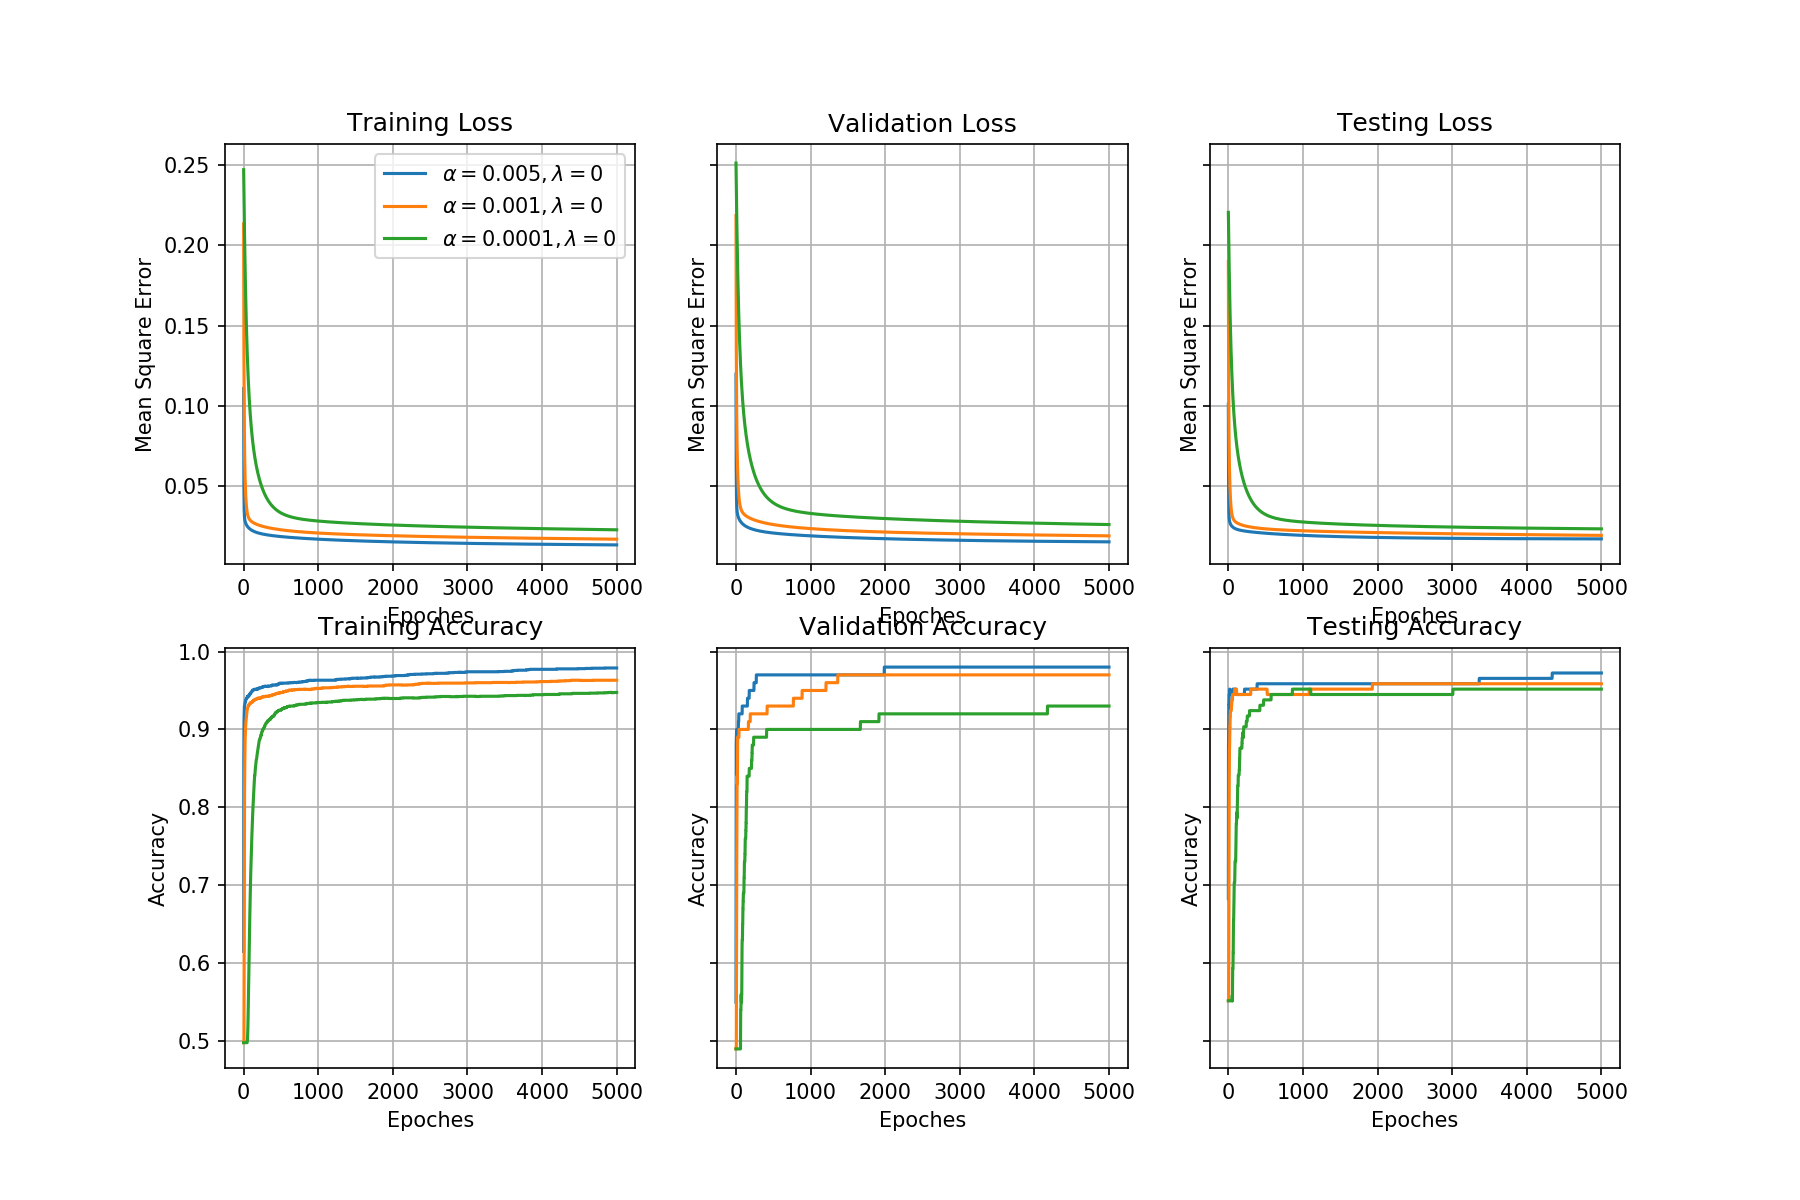
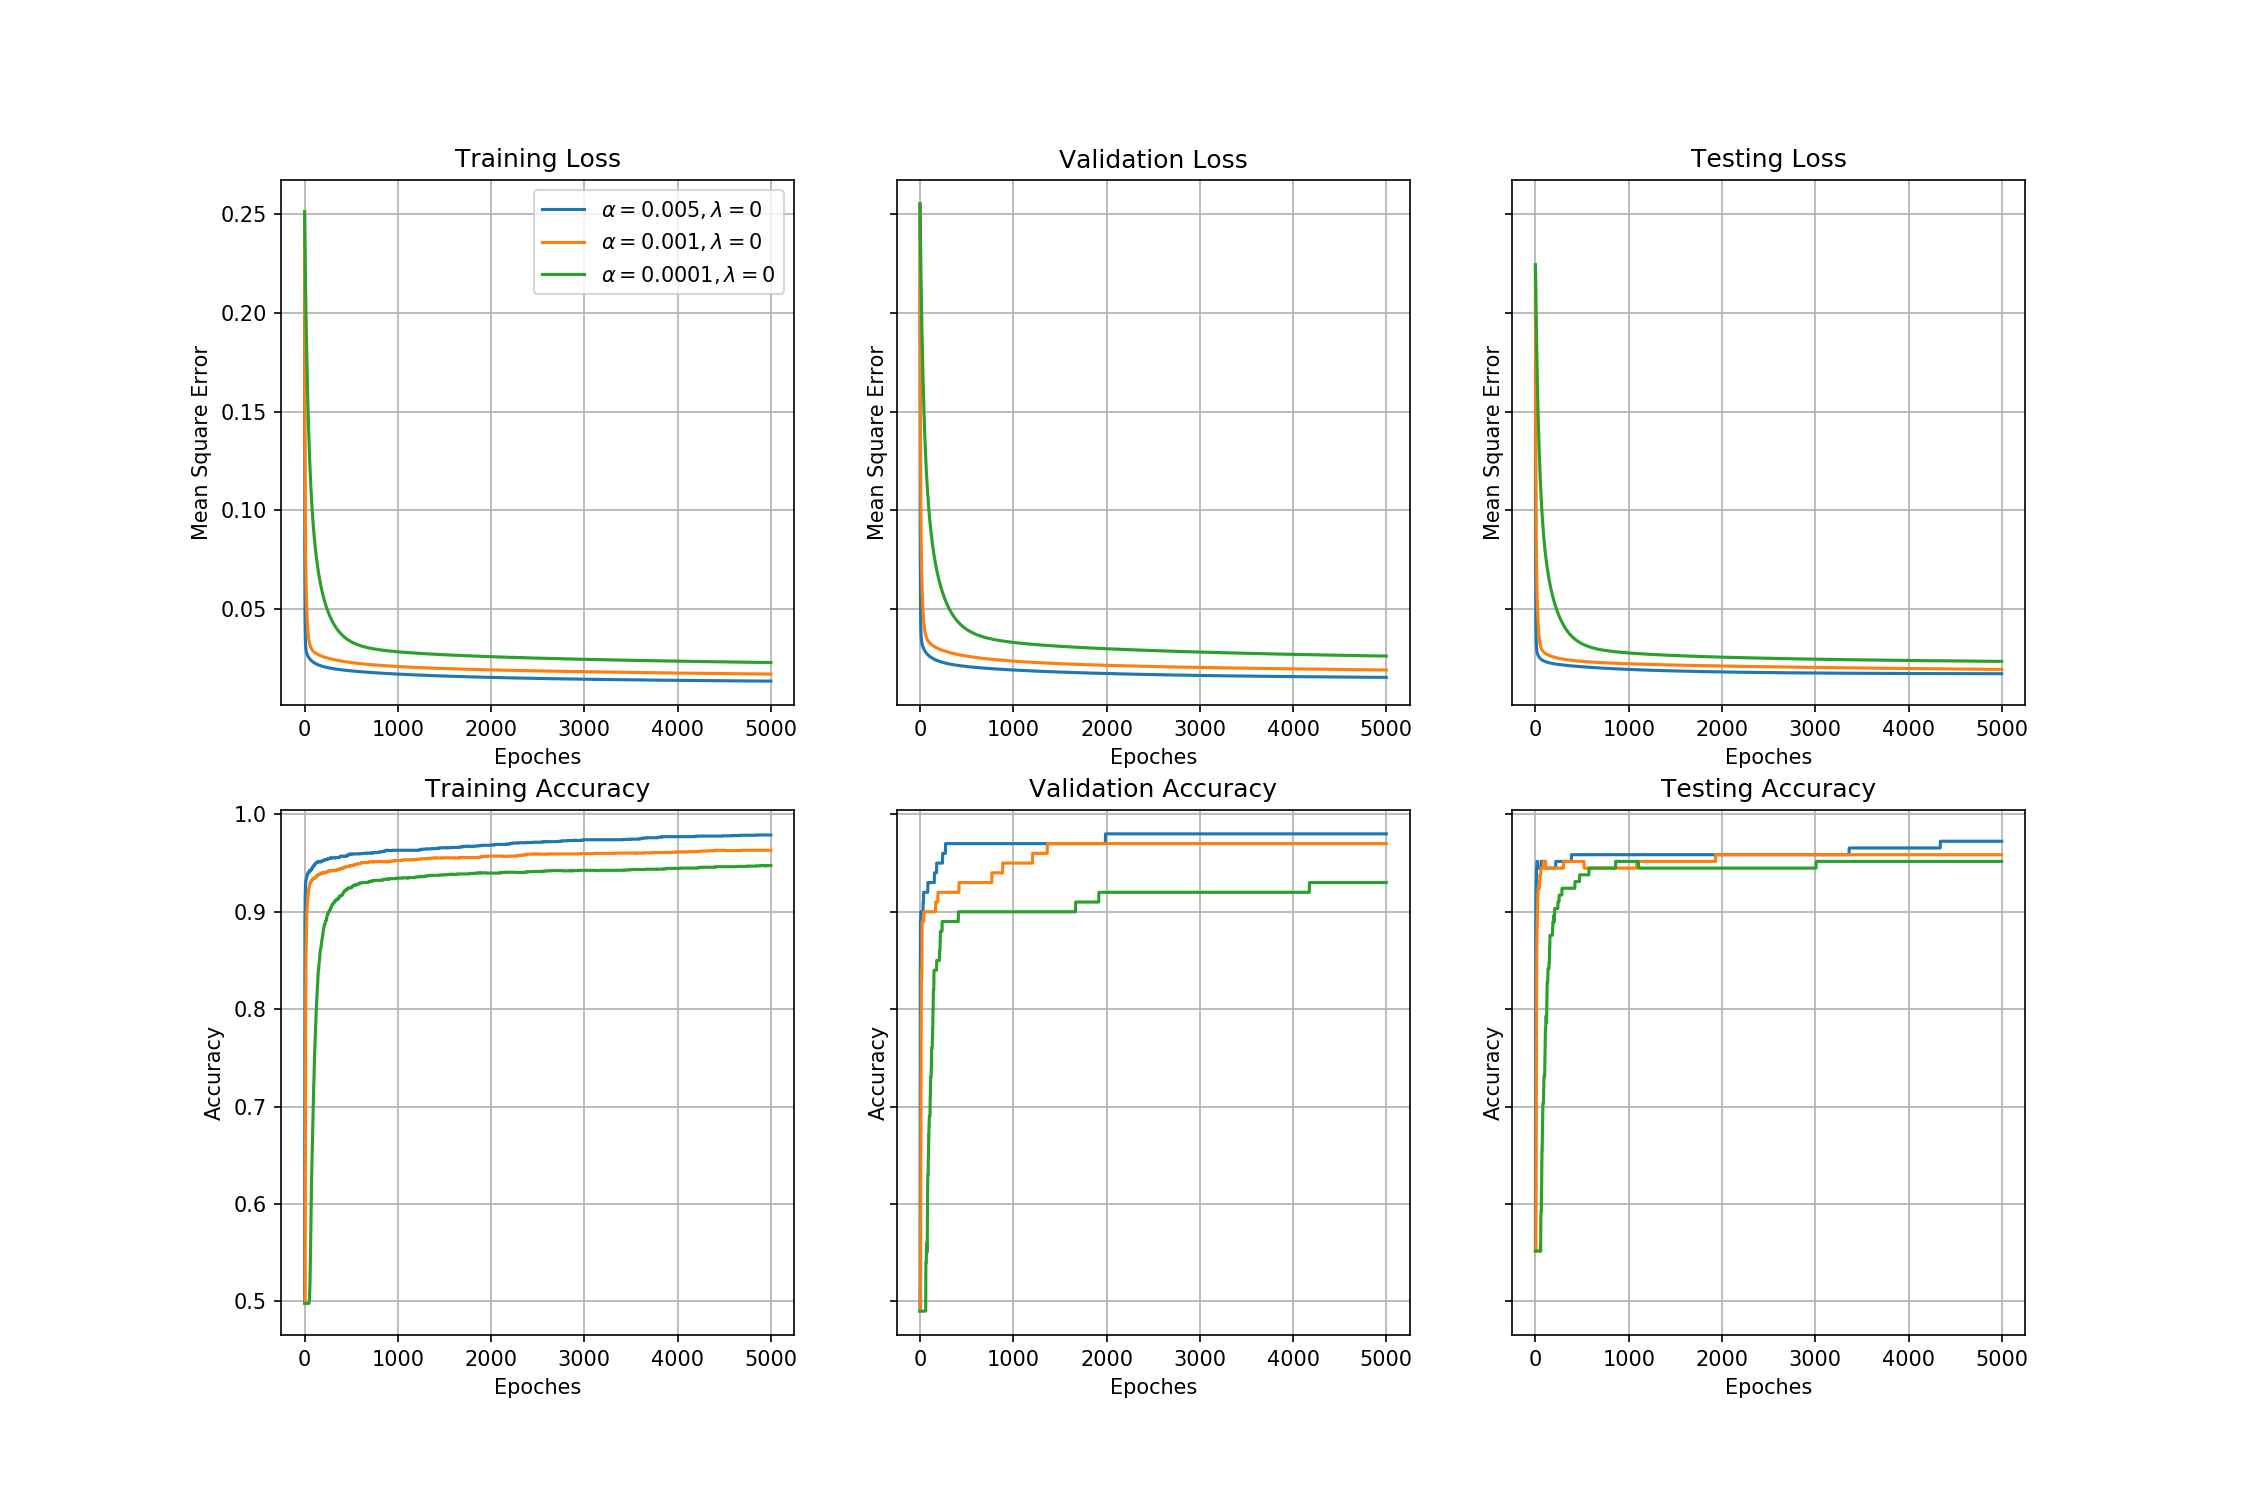
More TF; rerun Q1

diff --git a/a1/starter.py b/a1/starter.py
@@ -159,8 +159,9 @@ def grad_descent(W, b, trainingData, trainingLabels, alpha, iterations, reg, EPS
     else:
         return W, b, mseList, validMseList, testMseList, accuracyList, validAccuracyList, testAccuracyList
 
-def buildGraph(lossType=None, learning_rate=0.001, d=784):
-    # Your implementation here
+def buildGraph(beta1=None, beta2=None, epsilon=None, 
+               lossType=None, learning_rate=0.001, d=784, stddev=0.5):
+    # Validate input
     if lossType is None or lossType == 'mse':
         pass
     elif lossType == 'ce':
@@ -170,26 +171,30 @@ def buildGraph(lossType=None, learning_rate=0.001, d=784):
     
     tf.set_random_seed(421)
     
-    W = tf.Variable(tf.zeros(
-        (d, 1)
+    # Model parameters (Variables)
+    W = tf.Variable(tf.truncated_normal(
+        (d, 1), stddev=stddev, seed=421
     ), trainable=True, name='Weight')
-    
+#    W = tf.Variable(tf.zeros(
+#        (d, 1)
+#    ), trainable=True, name='Weight')
     b = tf.Variable(tf.zeros(
         (1, 1)
     ), trainable=True, name='bias')
     
+    # Data inputs (Placeholders)
     x = tf.placeholder(
         dtype=tf.float32,
         shape=(d, None),
-        name='trainData'
+        name='data'
     )
-    
     y = tf.placeholder(
         dtype=tf.float32,
         shape=(1, None),
-        name='trainLabel'
+        name='label'
     )
     
+    # Hyperparameter (Placeholder)
     lambd = tf.placeholder(
         dtype=tf.float32,
         shape=(1, 1),
@@ -205,13 +210,13 @@ def buildGraph(lossType=None, learning_rate=0.001, d=784):
         
     optimizer = tf.train.GradientDescentOptimizer(learning_rate=learning_rate).minimize(loss)
     
-    return optimizer, x, y, lambd, loss, W, b, yhat
+    return optimizer, W, b, x, y, lambd, yhat, loss
 
 
 
 if __name__ == '__main__':
     # %%
-    linear_regression_epochs = 0
+    linear_regression_epochs = 5000
     run13 = True
     run14 = True
     save_linear_regression = False
@@ -219,7 +224,7 @@ if __name__ == '__main__':
 
     logistic_regression_epochs = 0
     
-    run_tf = True
+    tf_epochs = 0
     
     trainData, validData, testData, trainTarget, validTarget, testTarget = loadData()
     
@@ -350,35 +355,55 @@ if __name__ == '__main__':
         
         
     # %% Q3
-    if run_tf:
-        optimizer, x, y, lambd, loss, W, b, yhat = buildGraph()
-        feed = {x: trainDataVec,
-                y: trainTarget.T,
-                lambd: ((0,),)}
+    if tf_epochs:
+        optimizer, W, b, x, y, lambd, yhat, loss = buildGraph(learning_rate=0.005, stddev=0.05)
+        
+        lambd_val = 0
+        
+        train_dict = {x: trainDataVec,
+                      y: trainTarget.T,
+                      lambd: ((lambd_val,),)}
+        valid_dict = {x: validDataVec,
+                      y: validTarget.T,
+                      lambd: ((lambd_val,),)}
+        test_dict = {x: testDataVec,
+                     y: testTarget.T,
+                     lambd: ((lambd_val,),)}
+        
+        results = []
         
         init = tf.global_variables_initializer()
         with tf.Session() as sess:
             sess.run(init)
-            W_ = sess.run(W)
-            b_ = sess.run(b)
-            print(np.count_nonzero((W_.T.dot(trainDataVec) + b_ > 0.5) == trainTarget.T) / trainTarget.size)
             
-            print(sess.run(loss, feed_dict=feed))
-            sess.run(optimizer, feed_dict=feed)
-            print(sess.run(loss, feed_dict=feed))
-            
-#            print(sess.run(x, feed_dict=feed))
-#            print(sess.run(y, feed_dict=feed))
-#            print(sess.run(lambd, feed_dict=feed))
 #            print(sess.run(loss, feed_dict=feed))
-#            print(sess.run(W))
-#            print(sess.run(b))
+#            print(np.count_nonzero((W_.T.dot(trainDataVec) + b_ > 0.5) == trainTarget.T) / trainTarget.size)
             
-#            print(sess.run((yhat>0.5) == y, feed_dict=feed))
-            W_ = sess.run(W)
-            b_ = sess.run(b)
-            print(np.count_nonzero((W_.T.dot(trainDataVec) + b_ > 0.5) == trainTarget.T) / trainTarget.size)
-            
+            print('i', 'train_loss', 'train_acc', sep='\t')
+            for i in range(tf_epochs):
+                train_loss, train_yhat, _ = sess.run([
+                        loss, yhat, optimizer
+                        ], feed_dict=train_dict)
+                train_acc = np.count_nonzero((train_yhat > 0.5) == trainTarget.T) / trainTarget.size
+                
+                print('\r', i, train_loss, train_acc, sep='\t', end='       \r')
+                
+                
+                
+#                print(sess.run(loss, feed_dict=feed))
+#                
+#    #            print(sess.run(x, feed_dict=feed))
+#    #            print(sess.run(y, feed_dict=feed))
+#    #            print(sess.run(lambd, feed_dict=feed))
+#    #            print(sess.run(loss, feed_dict=feed))
+#    #            print(sess.run(W))
+#    #            print(sess.run(b))
+#                
+#    #            print(sess.run((yhat>0.5) == y, feed_dict=feed))
+#                W_ = sess.run(W)
+#                b_ = sess.run(b)
+#                print(np.count_nonzero((W_.T.dot(trainDataVec) + b_ > 0.5) == trainTarget.T) / trainTarget.size)
+                
 
 
 
